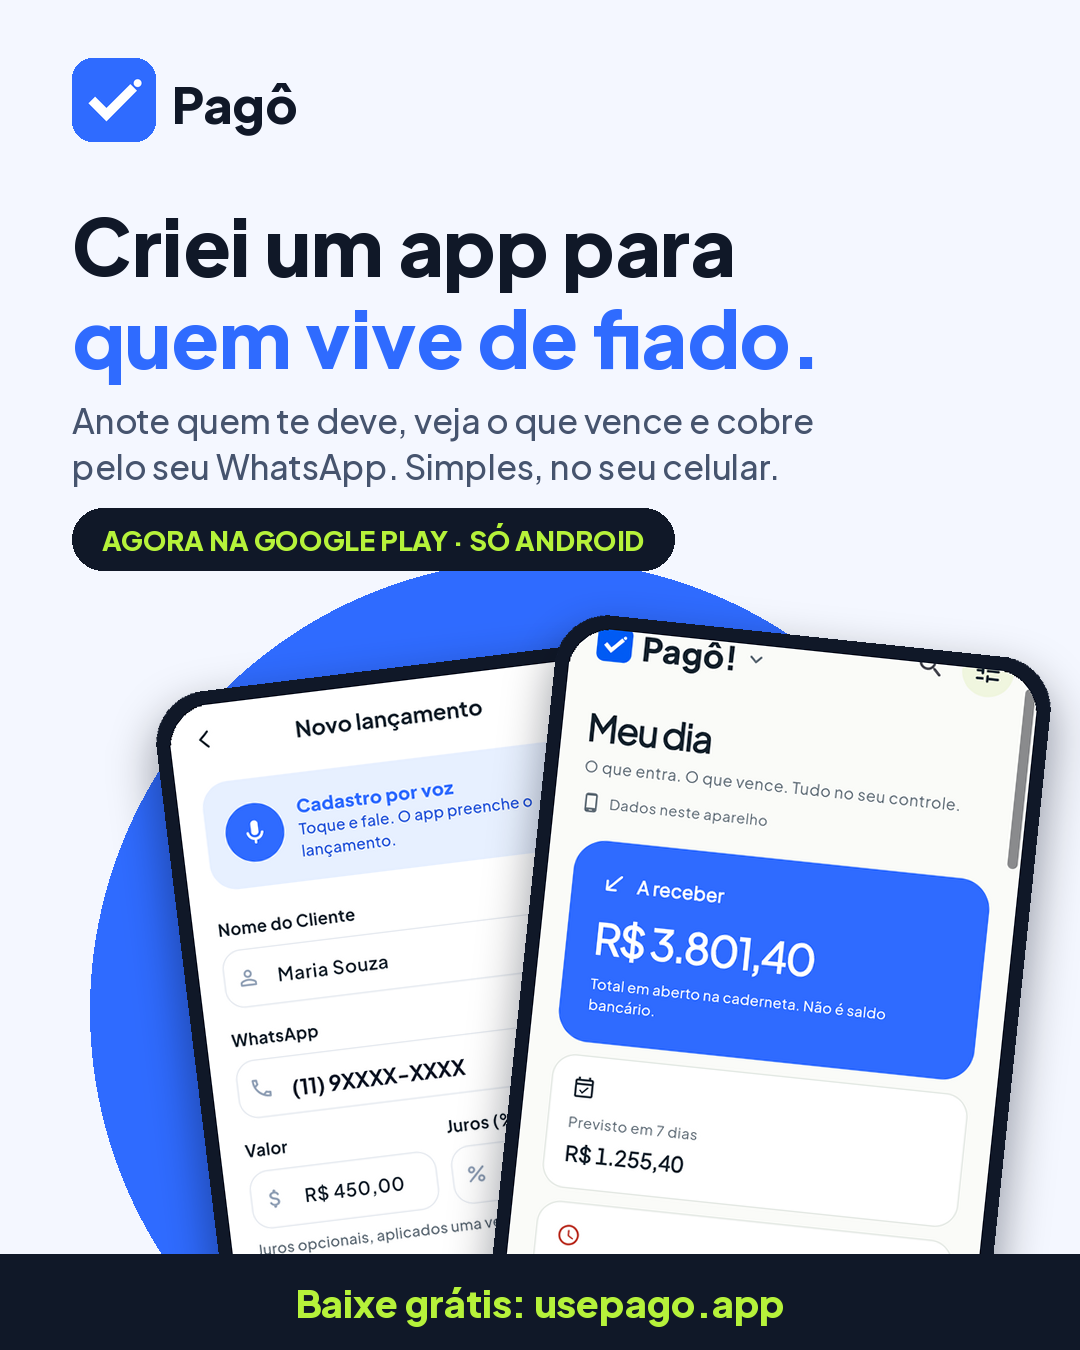
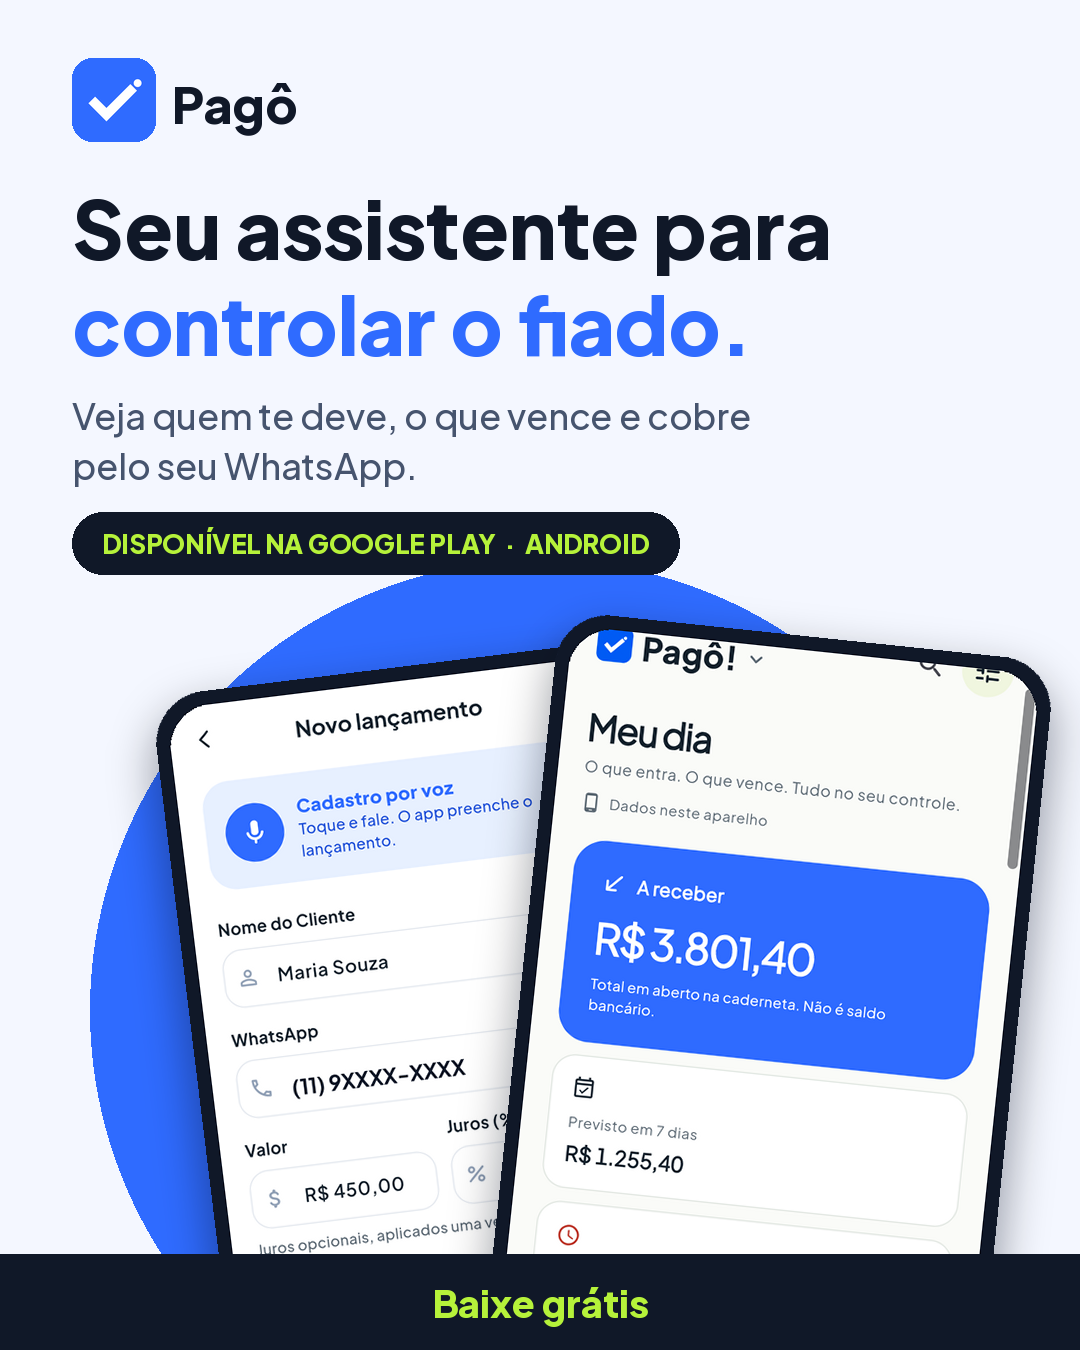
docs: ajusta imagem e texto de divulgacao (tom profissional, so 'Baixe gratis')
Claude-Session: https://claude.ai/code/session_01Q1BCoy4EjiD6xzcckRRrSA

Changed region(s): [[0.0611, 0.1244, 0.7639, 0.4356], [0.275, 0.9333, 0.7333, 0.9956]]

diff --git a/docs/divulgacao/texto-whatsapp.md b/docs/divulgacao/texto-whatsapp.md
@@ -34,9 +34,9 @@ Imagem: `pago-whatsapp-pessoal.png`
 
 Galera, queria compartilhar uma coisa com vocês 👇
 
-Eu criei um app! Chama *Pagô* e é uma caderneta digital para quem vende fiado, a prazo ou empresta dinheiro (mercadinho, loja, prestador de serviço, autônomo...).
+Desenvolvi o *Pagô*, um app para quem precisa de um assistente para organizar o fiado, as vendas a prazo e as cobranças (mercadinho, loja, prestador de serviço, autônomo...).
 
-Em vez de caderno e memória, você anota tudo no celular:
+Em vez de caderno e memória, você controla tudo no celular:
 ✅ quem te deve e quanto
 ✅ o que vence esta semana e o que já venceu
 ✅ pagamento parcial, sem perder a conta
@@ -49,4 +49,4 @@ Importante: o Pagô é só uma caderneta para você se organizar. Não é banco 
 📱 Por enquanto só tem para *Android*:
 https://play.google.com/store/apps/details?id=app.usepago
 
-Se baixarem, me contem o que acharam. Toda sugestão ajuda a melhorar! 🙏 E se conhecerem alguém que vive de fiado, manda para essa pessoa.
+Se baixarem, me contem o que acharam: toda sugestão ajuda a melhorar. 🙏 E se conhecerem alguém que vende a prazo, é só encaminhar.
